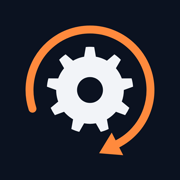
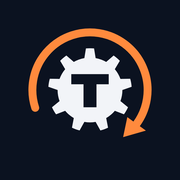
feat: marca nova, cartões na página inicial e fim de artigo
- Símbolo novo nos ícones, favicon.svg e og.png (cartão com as artes do canal).
- Página inicial com um cartão por artigo, com a capa do vídeo.
- "Em uma frase" num painel azul, separado do mito, que ganha o ✕ das cenas.
- Botão de play no canto, sem tapar a capa no celular.
- Convite para o canal no fim do artigo; estilos dos "Outros artigos".
- ep001: data do vídeo (31/10) e mapa mental com as cores por papel.

diff --git a/estilo.css b/estilo.css
@@ -12,6 +12,7 @@
   --laranja: #ff8a3d;
   --suave: #8a97b1;
   --succao: #3d7bff;
+  --succao-claro: #8fb0ff;
   --painel: #0f182b;
   --coluna: 68ch;
 }
@@ -102,28 +103,38 @@ p { margin: 0 auto 1.15rem; }
   background: transparent;
   cursor: pointer;
 }
+/* O botão fica no canto de baixo, sobre uma sombra, para não tapar o desenho nem o texto da capa. */
+.video button { background: linear-gradient(to top, rgba(11, 18, 32, 0.78), rgba(11, 18, 32, 0) 38%); }
 .video .tocar {
   position: absolute;
-  left: 50%;
-  top: 50%;
-  width: 5.5rem;
-  height: 5.5rem;
-  transform: translate(-50%, -50%);
-  border-radius: 50%;
+  right: 1rem;
+  bottom: 1rem;
+  display: flex;
+  align-items: center;
+  height: 2.9rem;
+  padding: 0 1.2rem 0 2.75rem;
+  border-radius: 999px;
   background: var(--laranja);
-  box-shadow: 0 0 0 10px rgba(255, 138, 61, 0.22);
+  color: var(--planta);
+  font-family: "Space Grotesk", sans-serif;
+  font-weight: 700;
+  font-size: 1.05rem;
+  box-shadow: 0 0 0 6px rgba(255, 138, 61, 0.2);
+  transform-origin: right center;
   transition: transform 0.15s ease;
 }
+.video .tocar::before { content: "Assistir"; }
 .video .tocar::after {
   content: "";
   position: absolute;
-  left: 38%;
-  top: 28%;
+  left: 1.15rem;
+  top: 50%;
+  transform: translateY(-50%);
   border-style: solid;
-  border-width: 1.35rem 0 1.35rem 2.1rem;
+  border-width: 0.55rem 0 0.55rem 0.85rem;
   border-color: transparent transparent transparent var(--planta);
 }
-.video button:hover .tocar, .video button:focus-visible .tocar { transform: translate(-50%, -50%) scale(1.07); }
+.video button:hover .tocar, .video button:focus-visible .tocar { transform: scale(1.05); }
 .video + .aviso { margin-top: -2rem; margin-bottom: 2.6rem; font-size: 0.9rem; color: var(--suave); }
 
 /* Figuras como prancha de desenho técnico: cota no alto e legenda numerada. */
@@ -144,8 +155,38 @@ figcaption { margin-top: 0.6rem; font-size: 0.98rem; line-height: 1.5; color: va
 figcaption b { color: var(--peca); font-family: "Space Grotesk", sans-serif; margin-right: 0.35rem; }
 
 /* Resposta curta no topo: o que a busca e quem tem pressa leem primeiro. */
-.resposta { border-left: 4px solid var(--laranja); padding: 0.2rem 0 0.2rem 1.1rem; margin-bottom: 1.6rem; }
-.mito { border-left: 4px solid var(--laranja); padding: 0.2rem 0 0.2rem 1.1rem; }
+.resposta {
+  margin-bottom: 1.8rem;
+  padding: 1rem 1.25rem 1.1rem;
+  border: 1px solid rgba(61, 123, 255, 0.45);
+  border-left: 4px solid var(--succao);
+  background: rgba(61, 123, 255, 0.09);
+}
+.resposta > strong:first-child {
+  display: block;
+  margin-bottom: 0.3rem;
+  font-family: "Space Grotesk", sans-serif;
+  font-size: 0.95rem;
+  color: var(--succao-claro);
+}
+
+/* O mito leva a marca de errado das cenas: um ✕ laranja num círculo. */
+.mito { position: relative; padding-left: 3.1rem; }
+.mito::before {
+  content: "✕";
+  position: absolute;
+  left: 0;
+  top: 0.1rem;
+  width: 2.1rem;
+  height: 2.1rem;
+  border: 2px solid var(--laranja);
+  border-radius: 50%;
+  color: var(--laranja);
+  font-weight: 700;
+  font-size: 1.05rem;
+  line-height: 1.95rem;
+  text-align: center;
+}
 
 /* Memória de cálculo do número. */
 .calculo {
@@ -182,11 +223,48 @@ figcaption b { color: var(--peca); font-family: "Space Grotesk", sans-serif; mar
 .fontes { font-size: 1rem; color: var(--suave); }
 .fontes li { margin-bottom: 0.45rem; }
 
-.lista-posts { list-style: none; padding: 0; }
-.lista-posts li { border-top: 1px solid var(--linha-forte); padding: 1.4rem 0; }
-.lista-posts a.titulo { font-family: "Space Grotesk", sans-serif; font-size: 1.6rem; color: var(--peca); text-decoration: none; }
+/* Página inicial: um cartão por artigo, com a capa do vídeo. */
+.lista-posts { list-style: none; padding: 0; display: grid; gap: 1.2rem; }
+.lista-posts li {
+  display: grid;
+  grid-template-columns: minmax(0, 15rem) 1fr;
+  gap: 1.2rem;
+  align-items: start;
+  padding: 0.9rem;
+  border: 1px solid var(--linha-forte);
+  background: var(--painel);
+}
+.lista-posts .capa img { display: block; width: 100%; height: auto; aspect-ratio: 16 / 9; object-fit: cover; border: 1px solid var(--linha-forte); }
+.lista-posts a.titulo { display: block; font-family: "Space Grotesk", sans-serif; font-size: 1.4rem; line-height: 1.15; color: var(--peca); text-decoration: none; }
 .lista-posts a.titulo:hover { color: var(--laranja); }
-.lista-posts p { color: var(--suave); margin: 0.4rem 0 0; }
+.lista-posts p { color: var(--suave); font-size: 1rem; line-height: 1.5; margin: 0.5rem 0 0; }
+
+/* Fim do artigo: o convite para o canal e os outros artigos. */
+.convite {
+  display: flex;
+  gap: 1.1rem;
+  align-items: center;
+  margin: 3rem auto 2rem;
+  padding: 1.2rem 1.3rem;
+  border: 2px solid var(--linha-forte);
+  background: var(--painel);
+}
+.convite img { flex: none; width: 3.5rem; height: 3.5rem; }
+.convite p { margin: 0 0 0.7rem; }
+.inscrever {
+  display: inline-block;
+  padding: 0.55rem 1.1rem;
+  border: 2px solid var(--laranja);
+  border-radius: 6px;
+  color: var(--laranja);
+  font-weight: 700;
+  text-decoration: none;
+}
+.inscrever:hover { background: var(--laranja); color: var(--planta); }
+.outros ul { list-style: none; padding: 0; margin: 0; }
+.outros li { border-top: 1px solid var(--linha-forte); padding: 0.75rem 0; }
+.outros a { font-family: "Space Grotesk", sans-serif; font-size: 1.15rem; color: var(--peca); text-decoration: none; }
+.outros a:hover { color: var(--laranja); }
 
 footer {
   max-width: calc(var(--coluna) + 4rem);
@@ -201,6 +279,10 @@ footer p { max-width: var(--coluna); margin: 0 auto 0.5rem; }
   body { font-size: 1.0625rem; }
   .abre { font-size: 1.18rem; }
   .calculo dl { grid-template-columns: 1fr; }
+  .lista-posts li { grid-template-columns: 1fr; }
+  .convite { align-items: flex-start; }
+  .video .tocar { right: 0.6rem; bottom: 0.6rem; height: 2.3rem; padding: 0 0.9rem 0 2.2rem; font-size: 0.92rem; box-shadow: 0 0 0 4px rgba(255, 138, 61, 0.2); }
+  .video .tocar::after { left: 0.9rem; border-width: 0.45rem 0 0.45rem 0.7rem; }
 }
 
 @media (prefers-reduced-motion: reduce) {

diff --git a/como-o-aviao-voa/index.html b/como-o-aviao-voa/index.html
@@ -6,6 +6,7 @@
   <title>Por que o avião não cai? | Torque</title>
   <meta name="description" content="A explicação do “caminho mais longo por cima” está errada. Veja o que o teste da fumaça mostra, como a asa empurra o ar para baixo, de onde vem a diferença de pressão e o número que segura um A320 no ar. Com mapa mental para baixar.">
   <link rel="canonical" href="https://mafsantana.github.io/torque/como-o-aviao-voa/">
+  <link rel="icon" href="../favicon.svg" type="image/svg+xml">
   <link rel="icon" href="../icone.png" type="image/png">
   <link rel="apple-touch-icon" href="../icone-180.png">
   <meta property="og:type" content="article">
@@ -25,7 +26,7 @@
     "headline": "Por que o avião não cai? A explicação da escola está errada",
     "inLanguage": "pt-BR",
     "datePublished": "2026-10-29",
-    "dateModified": "2026-10-30",
+    "dateModified": "2026-10-31",
     "description": "O avião fica no ar porque a asa, inclinada contra o vento, desvia o ar para baixo; o ar empurra a asa para cima. A explicação do caminho mais longo por cima está errada.",
     "mainEntityOfPage": "https://mafsantana.github.io/torque/como-o-aviao-voa/",
     "image": "https://mafsantana.github.io/torque/como-o-aviao-voa/img/capa.png",
@@ -40,7 +41,7 @@
     "name": "Por que o avião não cai? A explicação da escola está errada",
     "description": "Um Airbus A320 decola com até 78 toneladas e fica no ar apoiado em nada além de ar. A explicação do caminho mais longo por cima da asa está errada: o teste da fumaça, como a asa empurra o ar para baixo, de onde vem a diferença de pressão, o estol e o número que segura o avião.",
     "thumbnailUrl": "https://i.ytimg.com/vi/YPFiWslCV9Q/maxresdefault.jpg",
-    "uploadDate": "2026-11-01T10:00:00-03:00",
+    "uploadDate": "2026-10-31T10:00:00-03:00",
     "duration": "PT7M44S",
     "inLanguage": "pt-BR",
     "embedUrl": "https://www.youtube.com/embed/YPFiWslCV9Q",
@@ -115,7 +116,7 @@
 <main>
   <article>
     <h1>Por que o avião não cai? A explicação da escola está errada</h1>
-    <p class="linha-fina">O artigo do vídeo de 29 de outubro de 2026, com as figuras e um mapa mental no fim. Leitura de 7 minutos.</p>
+    <p class="linha-fina">O artigo do vídeo de 31 de outubro de 2026, com as figuras e um mapa mental no fim. Leitura de 7 minutos.</p>
 
     <div class="video" id="video">
       <img src="img/capa.webp" alt="Capa do vídeo: perfil de asa com o caminho por cima e por baixo riscados e a frase “A escola errou”" width="1280" height="720">
@@ -234,6 +235,14 @@
       <li><a href="https://aircraft.airbus.com/en/aircraft/a320-family/a320ceo">Airbus, especificações do A320ceo</a>: peso máximo de decolagem de 78 t.</li>
     </ul>
   </article>
+
+  <aside class="convite" aria-label="Inscreva-se no canal">
+    <img src="../marca.png" alt="" width="56" height="56">
+    <div>
+      <p><strong>Os vídeos chegam primeiro no YouTube.</strong> Máquinas e fenômenos do dia a dia, abertos por dentro e calculados com a física de verdade.</p>
+      <a class="inscrever" href="https://www.youtube.com/@Torque.Explica?sub_confirmation=1">Inscrever-se no canal</a>
+    </div>
+  </aside>
 </main>
 
 <footer>

diff --git a/index.html b/index.html
@@ -6,6 +6,7 @@
   <title>Torque: como as coisas funcionam por dentro</title>
   <meta name="description" content="Os artigos dos vídeos do canal Torque, com as figuras e um mapa mental de cada episódio.">
   <link rel="canonical" href="https://mafsantana.github.io/torque/">
+  <link rel="icon" href="favicon.svg" type="image/svg+xml">
   <link rel="icon" href="icone.png" type="image/png">
   <link rel="apple-touch-icon" href="icone-180.png">
   <meta property="og:type" content="website">
@@ -14,7 +15,10 @@
   <meta property="og:title" content="Torque: como as coisas funcionam por dentro">
   <meta property="og:description" content="Os artigos dos vídeos do canal Torque, com as figuras e um mapa mental de cada episódio.">
   <meta property="og:url" content="https://mafsantana.github.io/torque/">
-  <meta property="og:image" content="https://mafsantana.github.io/torque/como-o-aviao-voa/img/capa.png">
+  <meta property="og:image" content="https://mafsantana.github.io/torque/og.png">
+  <meta property="og:image:width" content="1200">
+  <meta property="og:image:height" content="630">
+  <meta property="og:image:alt" content="O símbolo e o nome do Torque entre uma turbina e uma caixa de câmbio em corte, sobre papel de planta técnica.">
   <meta name="twitter:card" content="summary_large_image">
   <link rel="stylesheet" href="estilo.css">
 </head>
@@ -31,8 +35,11 @@
   <h2>Artigos</h2>
   <ul class="lista-posts">
     <li>
-      <a class="titulo" href="como-o-aviao-voa/">Por que o avião não cai? A explicação da escola está errada</a>
-      <p>O teste da fumaça, a asa que empurra o ar para baixo, a diferença de pressão, o estol e o número que segura um A320 no ar. Publicado em 29 de outubro de 2026.</p>
+      <a class="capa" href="como-o-aviao-voa/" tabindex="-1" aria-hidden="true"><img src="como-o-aviao-voa/img/capa.webp" alt="" width="1280" height="720" loading="lazy"></a>
+      <div>
+        <a class="titulo" href="como-o-aviao-voa/">Por que o avião não cai? A explicação da escola está errada</a>
+        <p>O teste da fumaça, a asa que empurra o ar para baixo, a diferença de pressão, o estol e o número que segura um A320 no ar. Publicado em 31 de outubro de 2026.</p>
+      </div>
     </li>
   </ul>
 </main>
